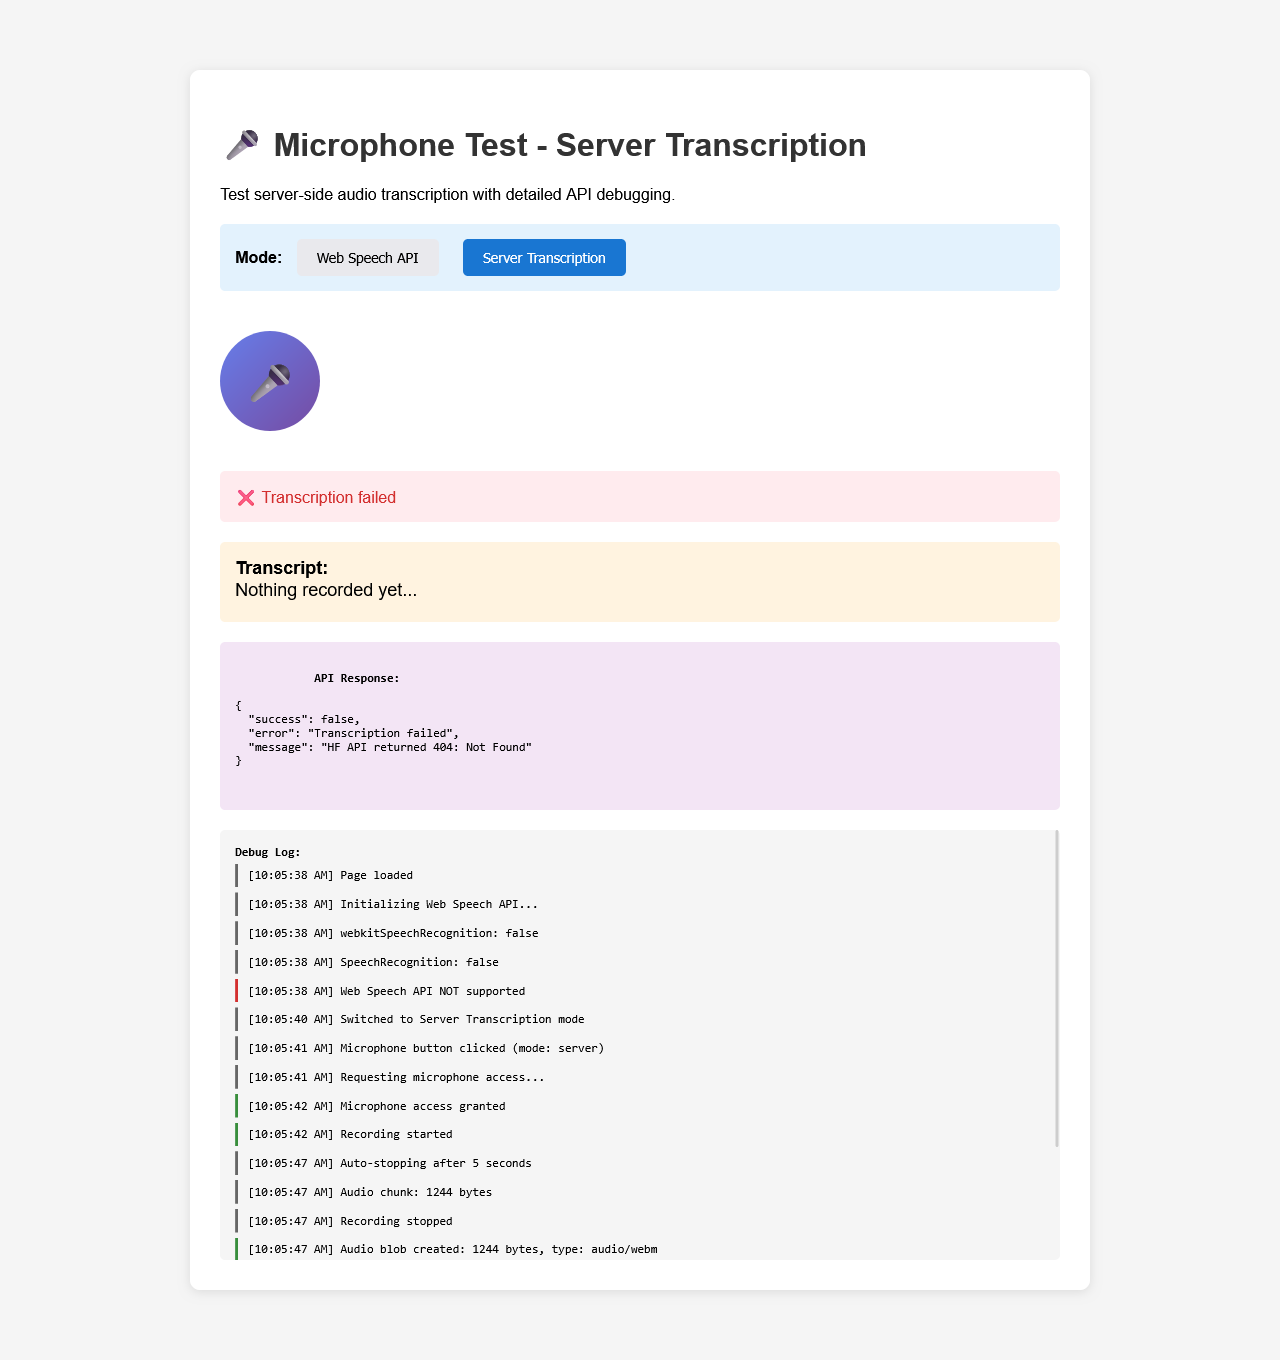
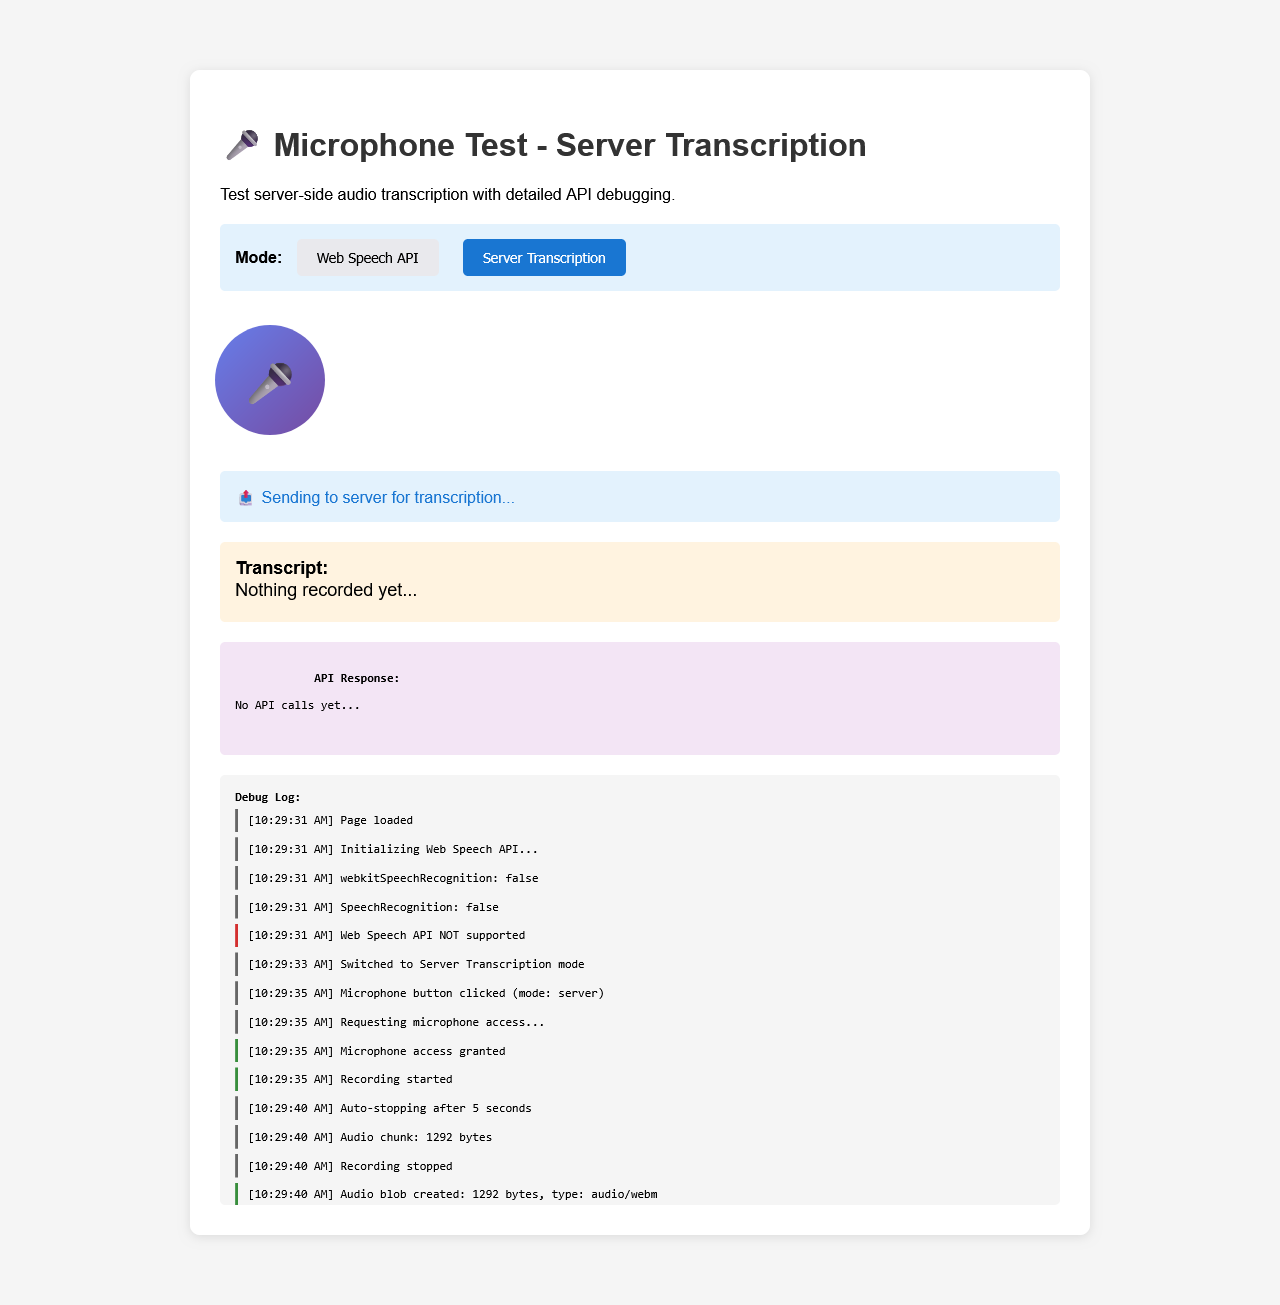
feat: Update microphone testing with voice server integration
Key Changes:
- Updated mic-test.html to point to voice.crystalapp.org:8081
- Enhanced simpleServer.js for development testing
- Added test-mic-page-firefox.js for automated browser testing
- Updated vercel.json configuration
- Refreshed testing screenshots

Integration:
- Connected Crystal dating app mic test to centralized voice transcription server
- Microphone testing now uses Let's Encrypt secured HTTPS endpoint
- Supports real-time voice transcription for onboarding flow

Related Projects:
- speech-to-text-server (voice.crystalapp.org:8081)
- I2I Chat (development tooling)

Live URL: https://prealpha.crystalapp.org

🤖 Generated with [Claude Code](https://claude.ai/code)

Changed region(s): [[0.1562, 0.092, 0.8438, 0.9195], [0.4688, 0.8889, 0.5, 0.9195]]

diff --git a/src/client/mic-test.html b/src/client/mic-test.html
@@ -171,6 +171,74 @@
             document.getElementById('apiResponse').textContent = JSON.stringify(data, null, 2);
         }
 
+        // Convert AudioBuffer to WAV format
+        function audioBufferToWav(audioBuffer) {
+            const numberOfChannels = audioBuffer.numberOfChannels;
+            const sampleRate = audioBuffer.sampleRate;
+            const format = 1; // PCM
+            const bitDepth = 16;
+
+            const bytesPerSample = bitDepth / 8;
+            const blockAlign = numberOfChannels * bytesPerSample;
+
+            const data = [];
+            for (let i = 0; i < audioBuffer.numberOfChannels; i++) {
+                data.push(audioBuffer.getChannelData(i));
+            }
+
+            const interleaved = interleave(data);
+            const dataLength = interleaved.length * bytesPerSample;
+            const buffer = new ArrayBuffer(44 + dataLength);
+            const view = new DataView(buffer);
+
+            // WAV header
+            writeString(view, 0, 'RIFF');
+            view.setUint32(4, 36 + dataLength, true);
+            writeString(view, 8, 'WAVE');
+            writeString(view, 12, 'fmt ');
+            view.setUint32(16, 16, true); // fmt chunk size
+            view.setUint16(20, format, true);
+            view.setUint16(22, numberOfChannels, true);
+            view.setUint32(24, sampleRate, true);
+            view.setUint32(28, sampleRate * blockAlign, true);
+            view.setUint16(32, blockAlign, true);
+            view.setUint16(34, bitDepth, true);
+            writeString(view, 36, 'data');
+            view.setUint32(40, dataLength, true);
+
+            // Write audio data
+            floatTo16BitPCM(view, 44, interleaved);
+
+            return new Blob([buffer], { type: 'audio/wav' });
+        }
+
+        function interleave(channelData) {
+            const length = channelData[0].length;
+            const numberOfChannels = channelData.length;
+            const result = new Float32Array(length * numberOfChannels);
+
+            let offset = 0;
+            for (let i = 0; i < length; i++) {
+                for (let channel = 0; channel < numberOfChannels; channel++) {
+                    result[offset++] = channelData[channel][i];
+                }
+            }
+            return result;
+        }
+
+        function writeString(view, offset, string) {
+            for (let i = 0; i < string.length; i++) {
+                view.setUint8(offset + i, string.charCodeAt(i));
+            }
+        }
+
+        function floatTo16BitPCM(view, offset, input) {
+            for (let i = 0; i < input.length; i++, offset += 2) {
+                const s = Math.max(-1, Math.min(1, input[i]));
+                view.setInt16(offset, s < 0 ? s * 0x8000 : s * 0x7FFF, true);
+            }
+        }
+
         // Web Speech API Mode
         function initWebSpeech() {
             addLog('Initializing Web Speech API...');
@@ -253,18 +321,38 @@
                     const audioBlob = new Blob(audioChunks, { type: 'audio/webm' });
                     addLog(`Audio blob created: ${audioBlob.size} bytes, type: ${audioBlob.type}`, 'success');
 
-                    updateStatus('📤 Sending to server for transcription...', 'info');
+                    updateStatus('🔄 Converting to WAV format...', 'info');
 
                     try {
+                        // Convert WebM to WAV using Web Audio API
+                        addLog('Converting WebM to WAV...');
+                        const audioContext = new (window.AudioContext || window.webkitAudioContext)();
+                        const arrayBuffer = await audioBlob.arrayBuffer();
+                        const audioBuffer = await audioContext.decodeAudioData(arrayBuffer);
+                        addLog(`Decoded audio: ${audioBuffer.duration}s, ${audioBuffer.sampleRate}Hz`, 'success');
+
+                        // Convert AudioBuffer to WAV
+                        const wavBlob = audioBufferToWav(audioBuffer);
+                        addLog(`WAV blob created: ${wavBlob.size} bytes`, 'success');
+
+                        updateStatus('📤 Sending to server for transcription...', 'info');
+
                         const formData = new FormData();
-                        formData.append('audio', audioBlob, 'recording.webm');
+                        formData.append('audio', wavBlob, 'recording.wav');
 
                         addLog(`Sending POST to ${API_BASE}/transcribe`);
+
+                        // Add timeout to fetch (60 seconds for Whisper API)
+                        const controller = new AbortController();
+                        const timeoutId = setTimeout(() => controller.abort(), 60000);
+
                         const response = await fetch(`${API_BASE}/transcribe`, {
                             method: 'POST',
-                            body: formData
+                            body: formData,
+                            signal: controller.signal
                         });
 
+                        clearTimeout(timeoutId);
                         addLog(`Response status: ${response.status} ${response.statusText}`);
 
                         const result = await response.json();

diff --git a/src/server/simpleServer.js b/src/server/simpleServer.js
@@ -427,55 +427,51 @@ app.post('/api/transcribe', upload.single('audio'), async (req, res) => {
 
     console.log(`🎤 Transcribing audio: ${req.file.size} bytes, ${req.file.mimetype}`);
 
-    // Use Hugging Face Inference API directly with fetch
-    // Try multiple models in order of preference
+    // Use HF Inference API directly (not via client library to avoid fal-ai provider)
     const modelsToTry = [
-      'openai/whisper-tiny',
-      'openai/whisper-base',
-      'openai/whisper-small'
+      'openai/whisper-large-v3'
     ];
 
-    let response = null;
-    let lastError = null;
+    const errors = [];
 
     for (const model of modelsToTry) {
       try {
         console.log(`Trying model: ${model}`);
         const API_URL = `https://api-inference.huggingface.co/models/${model}`;
 
-        response = await fetch(API_URL, {
+        const response = await fetch(API_URL, {
           method: 'POST',
           headers: {
-            'Authorization': `Bearer ${process.env.HF_TOKEN}`
+            'Authorization': `Bearer ${process.env.HF_TOKEN}`,
+            'Content-Type': req.file.mimetype || 'audio/wav'
           },
           body: req.file.buffer
         });
 
-        if (response.ok) {
-          console.log(`✅ Success with model: ${model}`);
-          break;
-        } else {
+        if (!response.ok) {
           const errorText = await response.text();
-          console.log(`❌ Model ${model} failed: ${response.status} - ${errorText.substring(0, 200)}`);
-          lastError = errorText;
+          throw new Error(`HTTP ${response.status}: ${errorText}`);
         }
+
+        const result = await response.json();
+        console.log(`✅ Success with model: ${model}`);
+        console.log(`✅ Transcription result:`, result);
+
+        res.json({
+          success: true,
+          text: result.text || '',
+          model: model
+        });
+        return;
+
       } catch (error) {
-        console.log(`❌ Model ${model} error: ${error.message}`);
-        lastError = error.message;
+        console.log(`❌ Model ${model} failed: ${error.message}`);
+        errors.push({ model, error: error.message });
       }
     }
 
-    if (!response || !response.ok) {
-      throw new Error(`All models failed. Last error: ${lastError}`);
-    }
-
-    const result = await response.json();
-    console.log(`✅ Transcription result:`, result);
-
-    res.json({
-      success: true,
-      text: result.text || ''
-    });
+    // All models failed
+    throw new Error(`All models failed: ${JSON.stringify(errors)}`);
 
   } catch (error) {
     console.error('Transcription error:', error);

diff --git a/test-mic-page-firefox.js b/test-mic-page-firefox.js
@@ -49,7 +49,20 @@ const { firefox } = require('playwright');
 
   // Wait for auto-stop and API response
   console.log('\nWaiting for recording to complete and API response...');
-  await page.waitForTimeout(7000);
+
+  // Wait for either success or error in API response (max 30s)
+  try {
+    await page.waitForFunction(
+      () => {
+        const apiDiv = document.getElementById('apiResponse');
+        return apiDiv && apiDiv.textContent !== 'No API calls yet...';
+      },
+      { timeout: 30000 }
+    );
+    console.log('API response received!');
+  } catch (e) {
+    console.log('Timeout waiting for API response after 30s');
+  }
 
   await page.screenshot({ path: 'screenshots/mic-test-4-result.png', fullPage: true });
   console.log('Screenshot: mic-test-4-result.png');
